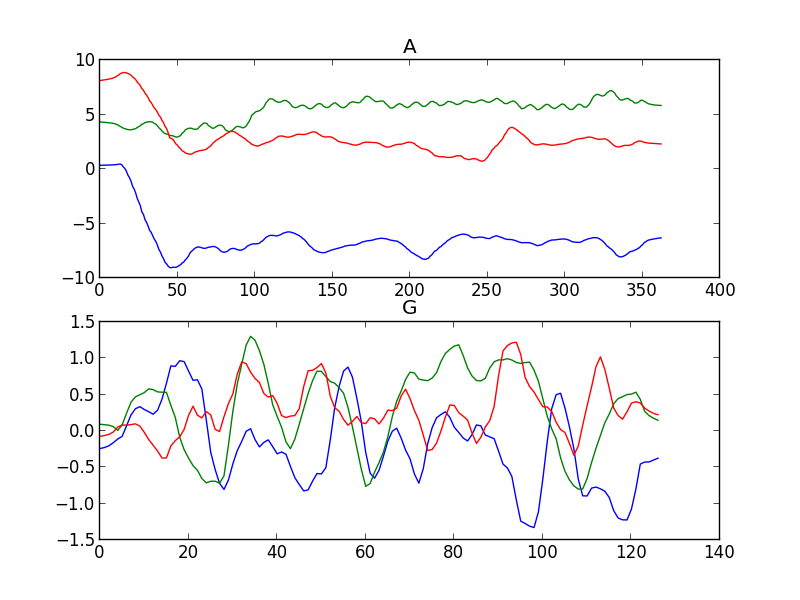
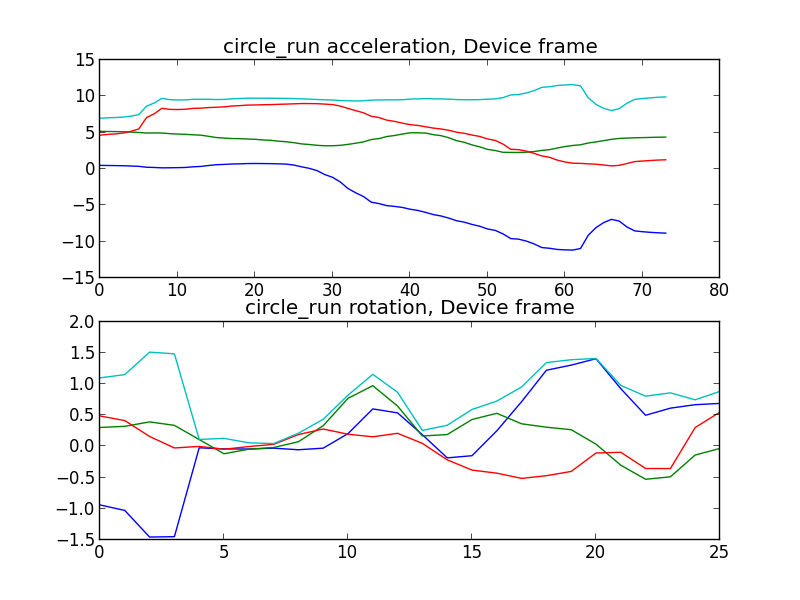
About to refactor.

diff --git a/isometry_H1.py b/isometry_H1.py
@@ -13,8 +13,11 @@ lowess = sm.nonparametric.lowess
 
 import numpy as np
 from quaternion import Quaternion as H
+from scipy.optimize import fmin_cobyla
 #-------------------------------------
 datafile = sys.argv[1] if len(sys.argv) > 1 else 'circle_run.tsv'
+p = re.compile('^(.*/)?(?:$|(.+?)(?:(\.[^.]*$)|$))')
+filename = p.match(datafile).group(2)
 #-----------------------------------------------
 class Config:
   def __init__(self, t_f, delta_t, delta_a, delta_r, t_i=0, a_i=H(), v_i=H(), p_i=H(), r_i=H(), o_i=H(1,0,0,0)):
@@ -89,7 +92,16 @@ class Config:
     print 'o_f: %s' % (self.o_f)
 
 #===============================================
+CONST_GRAVITY = 9.78
+
+def objective_gravity(x, d):
+  return (np.sum(np.dot(d-x,x))/np.linalg.norm(x))**2
+
+def grav_constraint(x):
+  return np.linalg.norm(x) - CONST_GRAVITY
+
 class Configs:
+
   def __init__(self, t_f=0, a_f=H(), v_f=H(), p_f=H(), r_f=H(), o_f=H(1,0,0,0)):
     self.aConfigs = []
     initConfig = Config(0, 0, H(), H())
@@ -101,15 +113,17 @@ class Configs:
 
     self.aConfigs.append(Config(t_f, delta_t, a_f, r_f, *initConfig))
 
-  def cancelGravity(self):
+  def setGravity(self):
     window_size = 15
+    d = self.aConfigs[len(self.aConfigs)-window_size:]
 
-    self.gravity = H()
+    def func(x):
+      return (np.sum(np.dot(d-x,x))/np.linalg.norm(x))**2
 
-    for c in self.aConfigs:
-      self.gravity += c.a_f
+    def constr(x):
+      return np.linalg.norm(x) - CONST_GRAVITY
 
-    self.gravity /= float(len(self.aConfigs))
+    self.gravity = fmin_cobyla(func, [0., 0., 0.], constr, rhoend=1e-7)
 
   def plotPositionE(self):
     x_axis = H(0,1,0,0)
@@ -124,6 +138,8 @@ class Configs:
     min_edge = min([min(c.p_f.x, c.p_f.y, c.p_f.z) for c in self.aConfigs[2:]])
     ax.scatter(min_edge, min_edge, min_edge)
     ax.scatter(max_edge, max_edge, max_edge)
+
+    ax.scatter(0,0,0, c='white')
 
     # plot path
     ax.plot([c.p_f.x for c in self.aConfigs[2:]], [c.p_f.y for c in self.aConfigs[2:]], [c.p_f.z for c in self.aConfigs[2:]])
@@ -144,8 +160,9 @@ class Configs:
       ax.plot([c.p_f.x, z_frame.x], [c.p_f.y, z_frame.y], [c.p_f.z, z_frame.z], c='b')
       #plt.plot([x_frame.x, c['p'].x, y_frame.x], [x_frame.y, c['p'].y, y_frame.y])
 
+    plt.title(filename + ' position, Earth frame')
     plt.axis('equal')
-    outfilename = 'img/%s_position.png' % (re.sub("\..*$", "", datafile))
+    outfilename = 'img/%s_positionE.png' % (filename)
     plt.savefig(outfilename)
 #---------------------------------------------------------
   def plotRotationE(self):
@@ -165,10 +182,13 @@ class Configs:
     ax.scatter(min_edge, min_edge, min_edge)
     ax.scatter(max_edge, max_edge, max_edge)
 
+    ax.scatter(0,0,0, c='white')
+
     ax.plot(r_x, r_y, r_z)
 
+    plt.title(filename + ' rotation, Earth frame')
     plt.axis('equal')
-    outfilename = 'img/%s_rotation.png' % (re.sub("\..*$", "", datafile))
+    outfilename = 'img/%s_rotationE.png' % (filename)
     plt.savefig(outfilename)
 #-----------------------------------------------------
   def plotAccelerationE(self):
@@ -188,10 +208,40 @@ class Configs:
     ax.scatter(min_edge, min_edge, min_edge)
     ax.scatter(max_edge, max_edge, max_edge)
 
+    ax.scatter(0,0,0, c='white')
+
     ax.plot(a_x, a_y, a_z)
 
+    plt.title(filename + ' acceleration, Earth frame')
     plt.axis('equal')
-    outfilename = 'img/%s_acceleration.png' % (re.sub("\..*$", "", datafile))
+    outfilename = 'img/%s_accelerationE.png' % (filename)
+    plt.savefig(outfilename)
+
+#-----------------------------------------------------
+  def plotVelocityE(self):
+    t = np.array([c.t_f for c in self.aConfigs[2:]])
+
+    # acceleration data as an array
+    v_x = np.array([c.v_f.x for c in self.aConfigs[2:]])
+    v_y = np.array([c.v_f.y for c in self.aConfigs[2:]])
+    v_z = np.array([c.v_f.z for c in self.aConfigs[2:]])
+
+    fig = plt.figure('velocity')
+    ax = Axes3D(fig)
+
+    # plot boundaries, so that all axes are on the same scale
+    max_edge = max(max(v_x), max(v_y), max(v_z))
+    min_edge = min(min(v_x), min(v_y), min(v_z))
+    ax.scatter(min_edge, min_edge, min_edge)
+    ax.scatter(max_edge, max_edge, max_edge)
+
+    ax.scatter(0,0,0, c='white')
+
+    ax.plot(v_x, v_y, v_z)
+
+    plt.title(filename + ' velocity, Earth frame')
+    plt.axis('equal')
+    outfilename = 'img/%s_velocityE.png' % (filename)
     plt.savefig(outfilename)
 #-----------------------------------------------------
   def plotComponentsE(self): 
@@ -202,11 +252,13 @@ class Configs:
     a_x = np.array([c.a_f.x for c in self.aConfigs[2:]])
     a_y = np.array([c.a_f.y for c in self.aConfigs[2:]])
     a_z = np.array([c.a_f.z for c in self.aConfigs[2:]])
+    a_norm = np.array([abs(c.a_f) for c in self.aConfigs[2:]])
 
     # rotation data as an array
     r_x = np.array([c.r_f.x for c in self.aConfigs[2:]])
     r_y = np.array([c.r_f.y for c in self.aConfigs[2:]])
     r_z = np.array([c.r_f.z for c in self.aConfigs[2:]])
+    r_norm = np.array([abs(c.r_f) for c in self.aConfigs[2:]])
 
     #--- plot components ---------
     plt.figure('earth_frame_components')
@@ -214,15 +266,17 @@ class Configs:
     plt.plot(t, a_x, label='X')
     plt.plot(t, a_y, label='Y')
     plt.plot(t, a_z, label='Z')
+    plt.plot(t, a_norm, label='Norm')
     plt.legend()
-    plt.title('Acceleration, Earth frame')
+    plt.title(filename + ' acceleration, Earth frame')
 
     plt.subplot(2,1,2)
     plt.plot(t, r_x, label='X')
     plt.plot(t, r_y, label='Y')
     plt.plot(t, r_z, label='Z')
+    plt.plot(t, r_norm, label='Norm')
     plt.legend()
-    plt.title('Rotation, Earth frame')
+    plt.title(filename + ' rotation, Earth frame')
 
-    outfilename = 'img/%s_componentsE.png' % (re.sub("\..*$", "", datafile))
+    outfilename = 'img/%s_componentsE.png' % (filename)
     plt.savefig(outfilename)

diff --git a/main.py b/main.py
@@ -12,7 +12,9 @@ lowess = sm.nonparametric.lowess
 # since G and A alternate, use the timestamp of G. average all subsequent A's
 # until the next G, and advance the result to the leading G's timestamp.
 
-datafile = sys.argv[1] if len(sys.argv) > 1 else 'circle_run.tsv'
+datafile = sys.argv[1] if len(sys.argv) > 1 else 'data/circle_run.tsv'
+p = re.compile('^(.*/)?(?:$|(.+?)(?:(\.[^.]*$)|$))')
+filename = p.match(datafile).group(2)
 
 #---------------------------------------------
 df = pd.io.parsers.read_csv(open(datafile, "rb"), delimiter=' ', names=['time','sensor','x','y','z'])
@@ -20,8 +22,8 @@ df = pd.io.parsers.read_csv(open(datafile, "rb"), delimiter=' ', names=['time','
 
 subplot_num = 0
 df_smooth = {'A': None, 'G': None}
-for key, grp in df[10:500].groupby('sensor'):
-  time_window_size = 2.0
+for key, grp in df[0:100].groupby('sensor'):
+  time_window_size = 1.0
   frac = time_window_size / (grp.time.max() - grp.time.min())
 
   # do the smoothing
@@ -36,14 +38,15 @@ for key, grp in df[10:500].groupby('sensor'):
   # add the other two smoothed series to the data frame
   df_smooth[key][key+'_y'] = pd.Series([i[1] for i in lowess_y], index=df_smooth[key].index)
   df_smooth[key][key+'_z'] = pd.Series([i[1] for i in lowess_z], index=df_smooth[key].index)
+  df_smooth[key][key+'_norm'] = pd.Series([i[1] for i in np.sqrt(lowess_x**2 + lowess_y**2 + lowess_z**2)], index=df_smooth[key].index)
 
   subplot_num += 1
   plt.figure('moving frame')
   plt.subplot(2,1,subplot_num)
   plt.plot(df_smooth[key])
-  plt.title(key)
+  plt.title(filename + ' %s, Device frame' % ('acceleration' if key == 'A' else 'rotation'))
 
-outfilename = 'img/%s_componentsD.png' % (re.sub("\..*$", "", datafile))
+outfilename = 'img/%s_componentsD.png' % (filename)
 plt.savefig(outfilename)
 
 # merge the 'A' and 'G' smoothed data frames
@@ -64,6 +67,7 @@ df.apply(lambda x: c.addConfig(x['time'], x['delta_t'], H(0.,x['A_x'],x['A_y'],x
 
 c.plotPositionE()
 c.plotAccelerationE()
+c.plotVelocityE()
 c.plotRotationE()
 c.plotComponentsE()
 #-----------------------------------------------------
@@ -89,7 +93,7 @@ def rolling_mean_filter():
   noise_acc.plot(ax=axes[2]); axes[2].set_title('Noise')
   #fig.tight_layout()
 
-  outfilename = 'img/%s_acceleration_filter.png' % (re.sub("\..*$", "", datafile))
+  outfilename = 'img/%s_acceleration_filter.png' % (filename)
   plt.savefig(outfilename)
 
   #--- plot rotation signal and noise --------
@@ -105,7 +109,7 @@ def rolling_mean_filter():
   noise_rot.plot(ax=axes[2]); axes[2].set_title('Noise')
   #fig.tight_layout()
 
-  outfilename = 'img/%s_rotation_filter.png' % (re.sub("\..*$", "", datafile))
+  outfilename = 'img/%s_rotation_filter.png' % (filename)
   plt.savefig(outfilename)
 
 #rolling_mean_filter()
